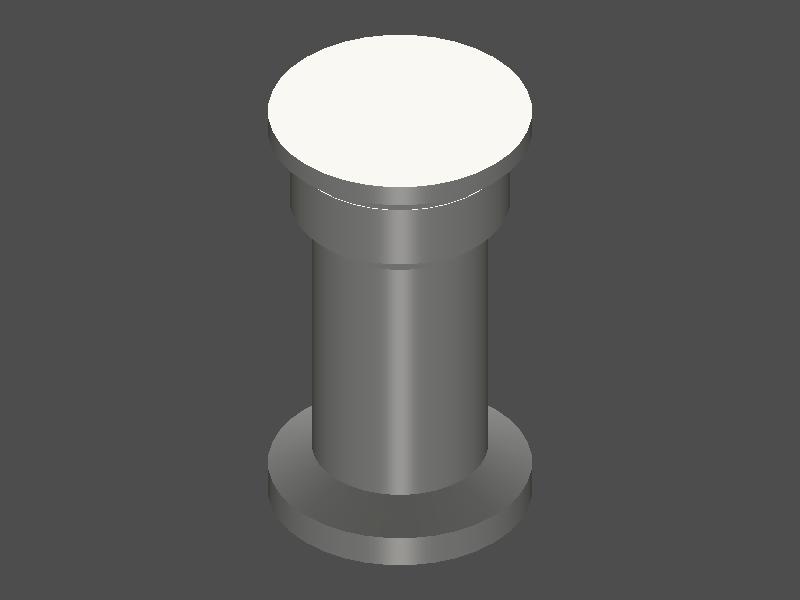
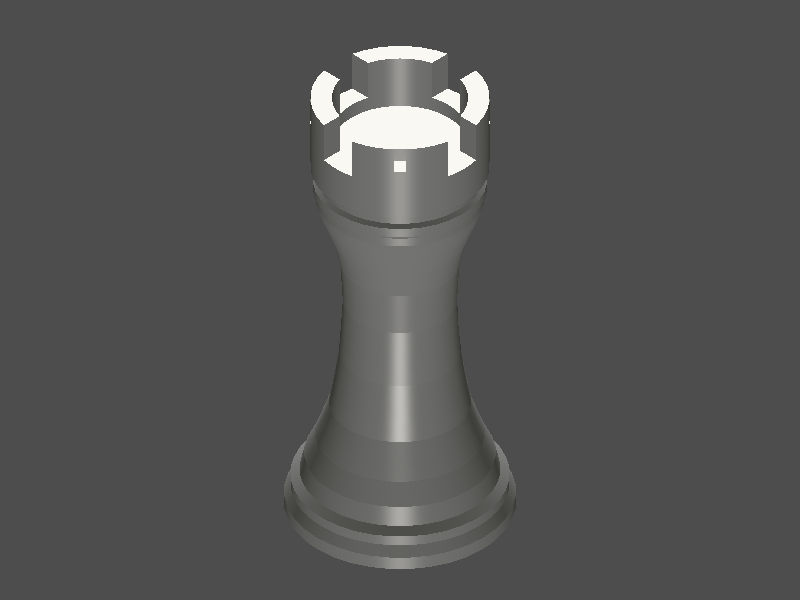
Analytics doc + site polish: BigQuery digest, rook swap, copyable prompt (#57)
* Add analytics best practices doc for measuring agentcad adoption

Captures learnings from investigating PyPI stats: how to interpret
download numbers (mirrors, CI, bots), what metrics actually matter,
stage benchmarks, free tools to set up, and common pitfalls.

* Swap rook render + make onboarding prompt copyable

Replace gallery-rook.png with the improved v3 render (proper chess rook
silhouette with battlements vs. the prior cylinder) and update alt/metrics
to match the new 30x30x64mm model. Add a CopyableBlock component with a
Copy button for the main Try it prompt.

* Expand analytics doc: BigQuery setup + semi-automated digest

Flesh out the BigQuery section with gcloud setup steps and a canonical
query filtering CI runners and non-pip/uv installers. Add a new
"Semi-automated weekly digest" section proposing a GitHub Actions cron
that runs the BigQuery query via a service account and posts to the same
Discord webhook feedback already flows through.

---------

diff --git a/agentcad-site/app/page.tsx b/agentcad-site/app/page.tsx
@@ -23,6 +23,56 @@ function CopyPrompt({ text }: { text: string }) {
   );
 }
 
+function CopyableBlock({
+  text,
+  label,
+  className,
+}: {
+  text: string;
+  label?: string;
+  className?: string;
+}) {
+  const [copied, setCopied] = useState(false);
+
+  return (
+    <div className="relative group">
+      <pre
+        className={
+          className ??
+          "bg-gray-900 border border-gray-800 rounded-lg p-6 text-sm overflow-x-auto whitespace-pre-wrap"
+        }
+        aria-label={label}
+      >
+        {text}
+      </pre>
+      <button
+        onClick={() => {
+          navigator.clipboard.writeText(text);
+          setCopied(true);
+          setTimeout(() => setCopied(false), 1500);
+        }}
+        className="absolute top-3 right-3 text-xs text-gray-500 hover:text-gray-200 bg-gray-800 border border-gray-700 rounded px-2 py-1 opacity-80 hover:opacity-100 transition"
+        aria-label="Copy to clipboard"
+      >
+        {copied ? "Copied!" : "Copy"}
+      </button>
+    </div>
+  );
+}
+
+const TRY_IT_PROMPT = `Create a Python 3.12 virtual environment, then:
+
+pip install agentcad[mcp]
+agentcad skill install
+agentcad --help
+
+Read the --help output — it's your operational briefing.
+
+Then design me a phone stand: a simple angled cradle
+that holds a phone at 60 degrees. About 80mm wide,
+50mm deep, with a 5mm lip at the bottom to keep the
+phone from sliding. Show me a preview when you're done.`;
+
 const gallery = [
   {
     image: "/gallery-enclosure.png",
@@ -38,9 +88,9 @@ const gallery = [
   },
   {
     image: "/gallery-rook.png",
-    alt: "3D render of a chess rook with circular base, tapered cylindrical shaft, and flat-topped crown, light gray top face on dark background, approximately 24x24x42mm",
+    alt: "3D render of a chess rook with a stepped circular base, hourglass-tapered shaft, and crenellated crown with four battlements, light gray on dark background, approximately 30x30x64mm",
     prompt: "Model a chess rook. Lathe-revolved profile with a wide base, tapered shaft, and a crown with battlements.",
-    metrics: "13 faces, 20 edges, 11.6cm\u00b3 volume",
+    metrics: "59 faces, 140 edges, 19.2cm\u00b3 volume, valid geometry",
   },
   {
     image: "/gallery-stand.png",
@@ -149,23 +199,10 @@ export default function Home() {
             <strong className="text-gray-300">Cursor</strong>, or any coding
             agent:
           </p>
-          <pre
-            className="bg-gray-900 border border-gray-800 rounded-lg p-6 text-sm overflow-x-auto whitespace-pre-wrap"
-            aria-label="Onboarding prompt for AI agents"
-          >
-{`Create a Python 3.12 virtual environment, then:
-
-pip install agentcad[mcp]
-agentcad skill install
-agentcad --help
-
-Read the --help output — it's your operational briefing.
-
-Then design me a phone stand: a simple angled cradle
-that holds a phone at 60 degrees. About 80mm wide,
-50mm deep, with a 5mm lip at the bottom to keep the
-phone from sliding. Show me a preview when you're done.`}
-          </pre>
+          <CopyableBlock
+            text={TRY_IT_PROMPT}
+            label="Onboarding prompt for AI agents"
+          />
         </section>
 
         {/* No boilerplate */}

diff --git a/prd/future-ideas/analytics.md b/prd/future-ideas/analytics.md
@@ -1,0 +1,190 @@
+# Analytics & Usage Measurement
+
+How to understand whether agentcad is getting real adoption, and what "success" looks like at each stage.
+
+## Current state (2026-04-17)
+
+- Published on PyPI as `agentcad`, version 0.1.4
+- GitHub repo is **private** — intentionally deferred; no urgency to go public
+- First week stats: ~495 "without mirrors" downloads, estimated 50-150 real human installs
+- No telemetry, no opt-in analytics, no usage tracking built into the CLI
+
+## Interpreting PyPI download numbers
+
+Raw download counts are noisy. Key filters:
+
+- **"with mirrors" vs "without mirrors"**: Mirrors/CDNs account for ~65% of our downloads. Always use the `without_mirrors` number from pypistats.
+- **CI pipelines**: pip/uv report a `ci` flag in BigQuery. Filter with `details.ci IS NULL` to exclude automated builds.
+- **Bots/scanners**: New packages get baseline noise from security scanners and indexers. For a brand-new package, subtract ~25-50/day as floor noise.
+- **The "null" problem**: Downloads from tools that don't report user-agent metadata show up as `null` system. These are uninterpretable — could be anything.
+
+**Rule of thumb**: Our real human installs are roughly 10-30% of the raw "with mirrors" number. Use downloads for **relative trends over time**, not absolute user counts.
+
+### Comparison benchmarks (niche CAD/3D Python tools)
+
+| Package | Monthly downloads | Context |
+|---------|-------------------|---------|
+| cadquery | ~230K | Established since 2014, our upstream dependency |
+| build123d | ~135K | Newer CadQuery alternative, ~2 years old |
+| trimesh | ~5.5M | Widely-used mesh library, mostly transitive dependency pulls |
+| agentcad | ~495 (week 1) | Brand new, novel category |
+
+## What to track
+
+### High signal (prioritize these)
+
+1. **Issues from strangers** — one substantive bug report from an unknown user is worth more than 1,000 downloads. Track who filed, what they were trying to do, whether they came back.
+2. **Repeat installs / version upgrades** — BigQuery can show same IP ranges downloading new versions. This is our retention metric.
+3. **Dependent packages** — other PyPI packages listing agentcad as a dependency (Libraries.io tracks this). Even 1-2 dependents is meaningful for a niche tool.
+4. **Depth of usage** — issues shifting from "how do I install" to edge cases in specific commands/helpers.
+5. **Time to second PR** — if an external contributor comes back, that's the strongest community health signal.
+
+### Medium signal
+
+- "Without mirrors" download trends (weekly rolling average)
+- GitHub unique cloners (not total — unique)
+- Unique monthly contributors (issues + PRs + comments)
+- Documentation page views from distinct visitors
+
+### Low signal / vanity (don't over-index)
+
+- Raw total download counts (never decrease, include all noise)
+- GitHub stars (gameable, weakly correlated with actual usage)
+- Total contributor count alone
+
+## Stage benchmarks
+
+| Stage | Without-mirrors downloads | Qualitative signals |
+|-------|---------------------------|---------------------|
+| Week 1 (done) | 50-150 real installs | Anyone outside your network tried it |
+| Month 1 | 500-1K/month | 5-10 GitHub issues, 1-3 external contributors |
+| Quarter 1 | 2-5K/month | 1-2 dependents, organic blog posts/tweets from strangers |
+| Month 6 | 5-10K/month | Users answering each other's questions, feature requests showing deep usage |
+
+## Free tools to use
+
+### Set up now
+
+- **pypistats.org/packages/agentcad** — daily/weekly/monthly with and without mirrors
+- **clickpy.clickhouse.com/dashboard/agentcad** — ClickHouse-powered, more granular than pypistats
+- **pepy.tech/projects/agentcad** — clean charts, good for README download badges
+- **GitHub Traffic tab** — unique cloners and page views. **Only retains 14 days** — archive it weekly via the API or it's lost.
+
+### Set up when ready
+
+- **Google BigQuery** — the canonical source. Free tier (1 TiB/month) is plenty for this kind of query. Setup:
+
+  ```bash
+  # one-time: install gcloud, auth, set project
+  brew install --cask google-cloud-sdk
+  gcloud auth login
+  gcloud auth application-default login
+  gcloud projects create agentcad-analytics  # or reuse an existing project
+  gcloud config set project agentcad-analytics
+  # enable the BigQuery API (free tier — no cost unless you exceed 1 TiB/month of query scans)
+  gcloud services enable bigquery.googleapis.com
+  ```
+
+  Canonical query — non-CI installs by day, OS, and installer:
+
+  ```sql
+  SELECT
+    DATE(timestamp) AS date,
+    details.system.name AS os,
+    details.installer.name AS installer,
+    COUNT(*) AS downloads
+  FROM `bigquery-public-data.pypi.file_downloads`
+  WHERE file.project = 'agentcad'
+    AND DATE(timestamp) >= DATE_SUB(CURRENT_DATE(), INTERVAL 30 DAY)
+    AND details.ci IS NULL                         -- exclude CI runners
+    AND details.installer.name IN ('pip', 'uv')    -- drop scanners/mirrors
+  GROUP BY date, os, installer
+  ORDER BY date DESC
+  ```
+
+  Run it: `bq query --use_legacy_sql=false < query.sql` or via the BigQuery web console.
+
+- **Libraries.io** — monitors when other packages depend on agentcad
+- **Snyk Advisor** (snyk.io/advisor/python/agentcad) — health score for credibility signaling
+
+## Semi-automated weekly digest
+
+Goal: a weekly stats report in Discord with zero manual effort, alongside the existing feedback stream.
+
+### Minimal setup (recommended)
+
+A GitHub Actions cron that runs the BigQuery query and posts a digest to the same Discord webhook that receives feedback:
+
+1. **Service account for BigQuery** (one-time):
+   ```bash
+   gcloud iam service-accounts create agentcad-stats \
+     --display-name="agentcad stats reporter"
+   gcloud projects add-iam-policy-binding agentcad-analytics \
+     --member="serviceAccount:agentcad-stats@agentcad-analytics.iam.gserviceaccount.com" \
+     --role="roles/bigquery.jobUser"
+   gcloud projects add-iam-policy-binding agentcad-analytics \
+     --member="serviceAccount:agentcad-stats@agentcad-analytics.iam.gserviceaccount.com" \
+     --role="roles/bigquery.dataViewer"
+   gcloud iam service-accounts keys create key.json \
+     --iam-account=agentcad-stats@agentcad-analytics.iam.gserviceaccount.com
+   ```
+
+2. **GitHub secrets**:
+   - `GCP_SA_KEY` — paste contents of `key.json`
+   - `DISCORD_WEBHOOK_URL` — reuse feedback webhook or a new `#stats` channel
+
+3. **`.github/workflows/stats-digest.yml`** — runs every Monday 09:00 UTC:
+   ```yaml
+   name: Weekly stats digest
+   on:
+     schedule:
+       - cron: "0 9 * * 1"
+     workflow_dispatch:  # allow manual trigger
+   jobs:
+     digest:
+       runs-on: ubuntu-latest
+       steps:
+         - uses: actions/checkout@v4
+         - uses: google-github-actions/auth@v2
+           with:
+             credentials_json: ${{ secrets.GCP_SA_KEY }}
+         - uses: google-github-actions/setup-gcloud@v2
+         - run: pip install google-cloud-bigquery requests
+         - run: python scripts/stats_digest.py
+           env:
+             DISCORD_WEBHOOK_URL: ${{ secrets.DISCORD_WEBHOOK_URL }}
+   ```
+
+4. **`scripts/stats_digest.py`** — runs the canonical query, formats a short summary (week-over-week non-CI downloads, top OS/installer, any spikes), POSTs to Discord. Include week-over-week delta so you notice trends without reading numbers.
+
+### Why this shape
+
+- **Reuses infra we already trust** — GitHub Actions + Discord webhook are already load-bearing for feedback.
+- **No server to run** — cron lives in GitHub, no cost.
+- **Versioned query** — the SQL lives in the repo, so changes show up in git history instead of getting lost in a BigQuery scratch tab.
+- **Manually triggerable** — `workflow_dispatch` means you can pull an ad-hoc digest any time.
+
+### Alternatives considered
+
+- **Local cron + launchd** — works, but dies when laptop sleeps; not reliable.
+- **Scarf** — replaces the query with a drop-in package redirect, but requires PyPI package config changes and adds a dependency for a tool we don't need yet at this scale.
+- **Dashboards (Looker, Metabase)** — overkill for a weekly number. Revisit when we have 5+ metrics worth glancing at simultaneously.
+
+### Consider later (at scale)
+
+- **Scarf** (about.scarf.sh) — privacy-conscious download analytics, org-level identification, retention tracking. Most useful at 500+ monthly active users.
+- **Opt-in telemetry** — lightweight first-run phone-home with clear opt-out. Controversial but gives the best real-user data. Defer this decision.
+
+## Common pitfalls
+
+- **Don't compare across categories.** trimesh has 5.5M/month because it's a transitive dependency, not because 5.5M humans use it.
+- **Watch trends, not absolutes.** Weekly rolling average matters more than daily peaks.
+- **Publicity spikes aren't growth.** An HN front page gives 10x for one day, then it's gone. Sustainable growth is a slow upward trend line.
+- **If downloads go up but issues/community stays flat, users are bouncing.** The absence of engagement is itself a signal.
+- **Stars can be bought.** Researchers identified 6M+ suspected fake stars on GitHub. Don't optimize for this.
+
+## The ultimate test
+
+> "If you deprecated agentcad tomorrow, how many people would complain?"
+
+That's the number that matters. Everything else is a proxy.
